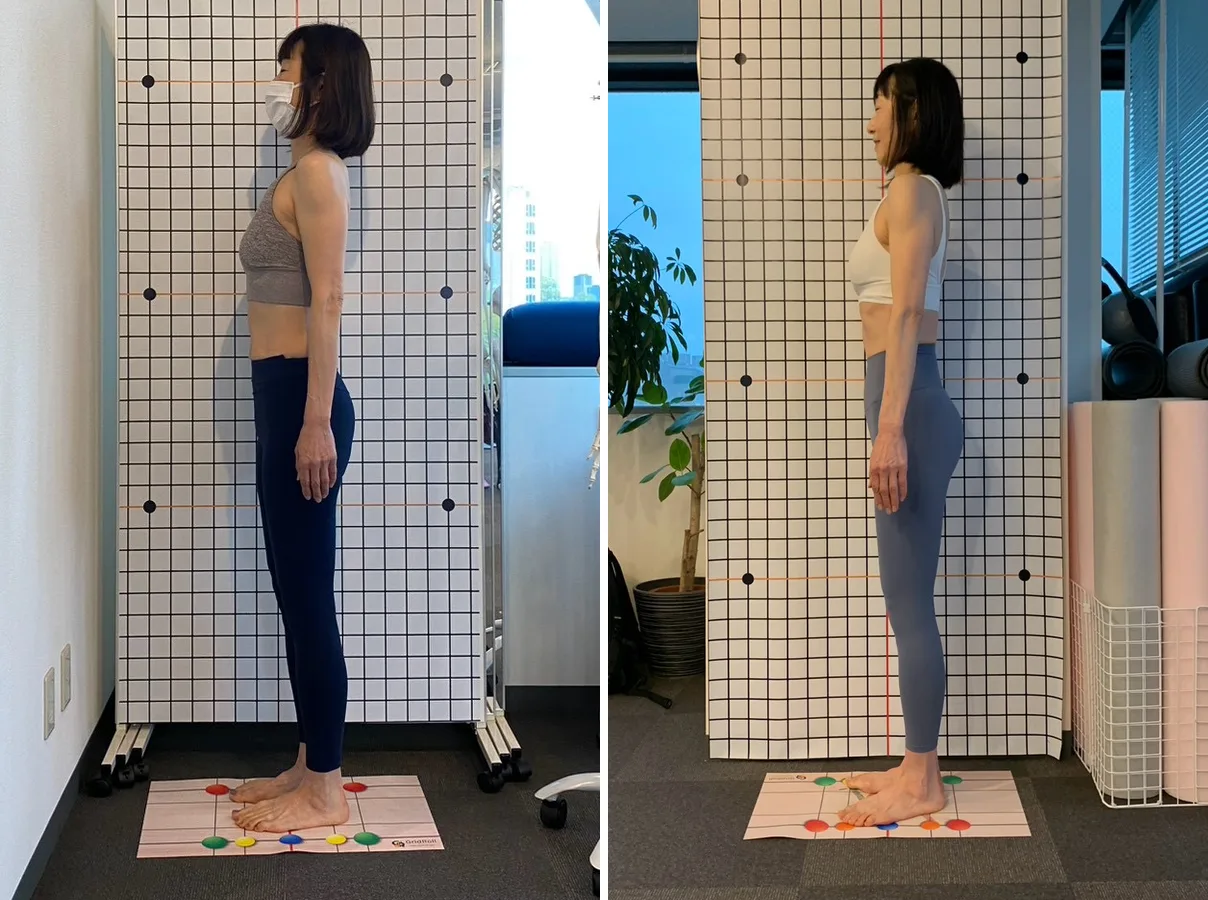
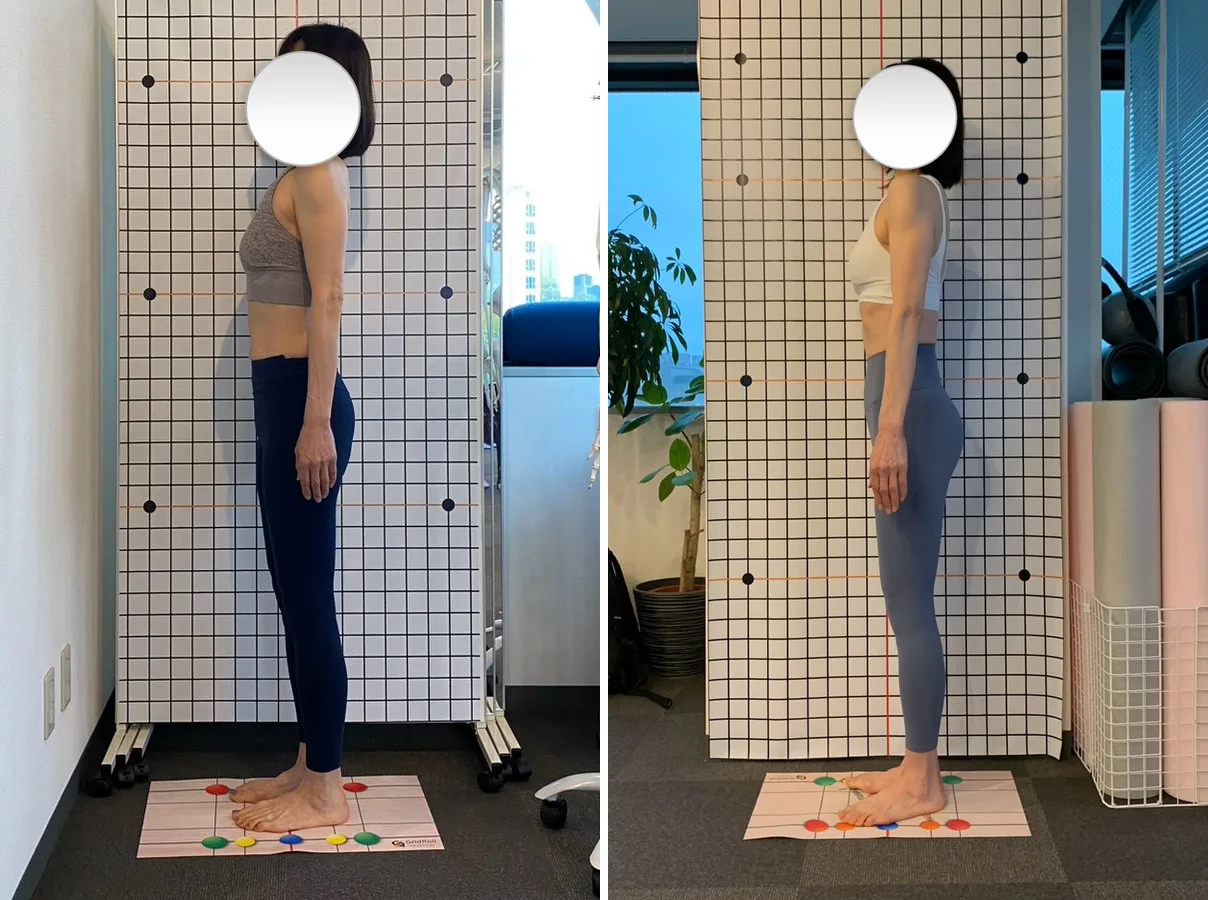
Hide customers' faces on the new before/after photos

Changed region(s): [[0.1838, 0.0311, 0.3063, 0.1867], [0.7045, 0.0622, 0.7964, 0.1867]]

diff --git a/index.html b/index.html
@@ -138,13 +138,13 @@
           <p class="ba-case__label">CASE 01</p>
           <div class="ba-case__grid">
             <figure class="ba-card reveal">
-              <img src="assets/ba-5.webp?v=1793981726" alt="お客様のビフォーアフター（ケース1）：姿勢と立ち姿（正面）" loading="lazy" width="1208" height="900">
+              <img src="assets/ba-5.webp?v=1794155704" alt="お客様のビフォーアフター（ケース1）：姿勢と立ち姿（正面）" loading="lazy" width="1208" height="900">
               <span class="ba-card__tag ba-card__tag--before">BEFORE</span>
               <span class="ba-card__tag ba-card__tag--after">AFTER</span>
               <figcaption class="ba-card__view">正面</figcaption>
             </figure>
             <figure class="ba-card reveal" style="--reveal-delay:0.08s;">
-              <img src="assets/ba-6.webp?v=1793981726" alt="お客様のビフォーアフター（ケース1）：姿勢（横から）" loading="lazy" width="1208" height="900">
+              <img src="assets/ba-6.webp?v=1794155704" alt="お客様のビフォーアフター（ケース1）：姿勢（横から）" loading="lazy" width="1208" height="900">
               <span class="ba-card__tag ba-card__tag--before">BEFORE</span>
               <span class="ba-card__tag ba-card__tag--after">AFTER</span>
               <figcaption class="ba-card__view">横</figcaption>
@@ -155,13 +155,13 @@
           <p class="ba-case__label">CASE 02</p>
           <div class="ba-case__grid">
             <figure class="ba-card reveal">
-              <img src="assets/ba-7.webp?v=1793981726" alt="お客様のビフォーアフター（ケース2）：姿勢と脚のライン（正面）" loading="lazy" width="1208" height="900">
+              <img src="assets/ba-7.webp?v=1794155704" alt="お客様のビフォーアフター（ケース2）：姿勢と脚のライン（正面）" loading="lazy" width="1208" height="900">
               <span class="ba-card__tag ba-card__tag--before">BEFORE</span>
               <span class="ba-card__tag ba-card__tag--after">AFTER</span>
               <figcaption class="ba-card__view">正面</figcaption>
             </figure>
             <figure class="ba-card reveal" style="--reveal-delay:0.08s;">
-              <img src="assets/ba-8.webp?v=1793981726" alt="お客様のビフォーアフター（ケース2）：姿勢（横から）" loading="lazy" width="1208" height="900">
+              <img src="assets/ba-8.webp?v=1794155704" alt="お客様のビフォーアフター（ケース2）：姿勢（横から）" loading="lazy" width="1208" height="900">
               <span class="ba-card__tag ba-card__tag--before">BEFORE</span>
               <span class="ba-card__tag ba-card__tag--after">AFTER</span>
               <figcaption class="ba-card__view">横</figcaption>
@@ -172,13 +172,13 @@
           <p class="ba-case__label">CASE 03</p>
           <div class="ba-case__grid">
             <figure class="ba-card reveal">
-              <img src="assets/ba-9.webp?v=1793981726" alt="お客様のビフォーアフター（ケース3）：ボディラインと立ち姿（正面）" loading="lazy" width="1208" height="900">
+              <img src="assets/ba-9.webp?v=1794155704" alt="お客様のビフォーアフター（ケース3）：ボディラインと立ち姿（正面）" loading="lazy" width="1208" height="900">
               <span class="ba-card__tag ba-card__tag--before">BEFORE</span>
               <span class="ba-card__tag ba-card__tag--after">AFTER</span>
               <figcaption class="ba-card__view">正面</figcaption>
             </figure>
             <figure class="ba-card reveal" style="--reveal-delay:0.08s;">
-              <img src="assets/ba-10.webp?v=1793981726" alt="お客様のビフォーアフター（ケース3）：姿勢（横から）" loading="lazy" width="1208" height="900">
+              <img src="assets/ba-10.webp?v=1794155704" alt="お客様のビフォーアフター（ケース3）：姿勢（横から）" loading="lazy" width="1208" height="900">
               <span class="ba-card__tag ba-card__tag--before">BEFORE</span>
               <span class="ba-card__tag ba-card__tag--after">AFTER</span>
               <figcaption class="ba-card__view">横</figcaption>
